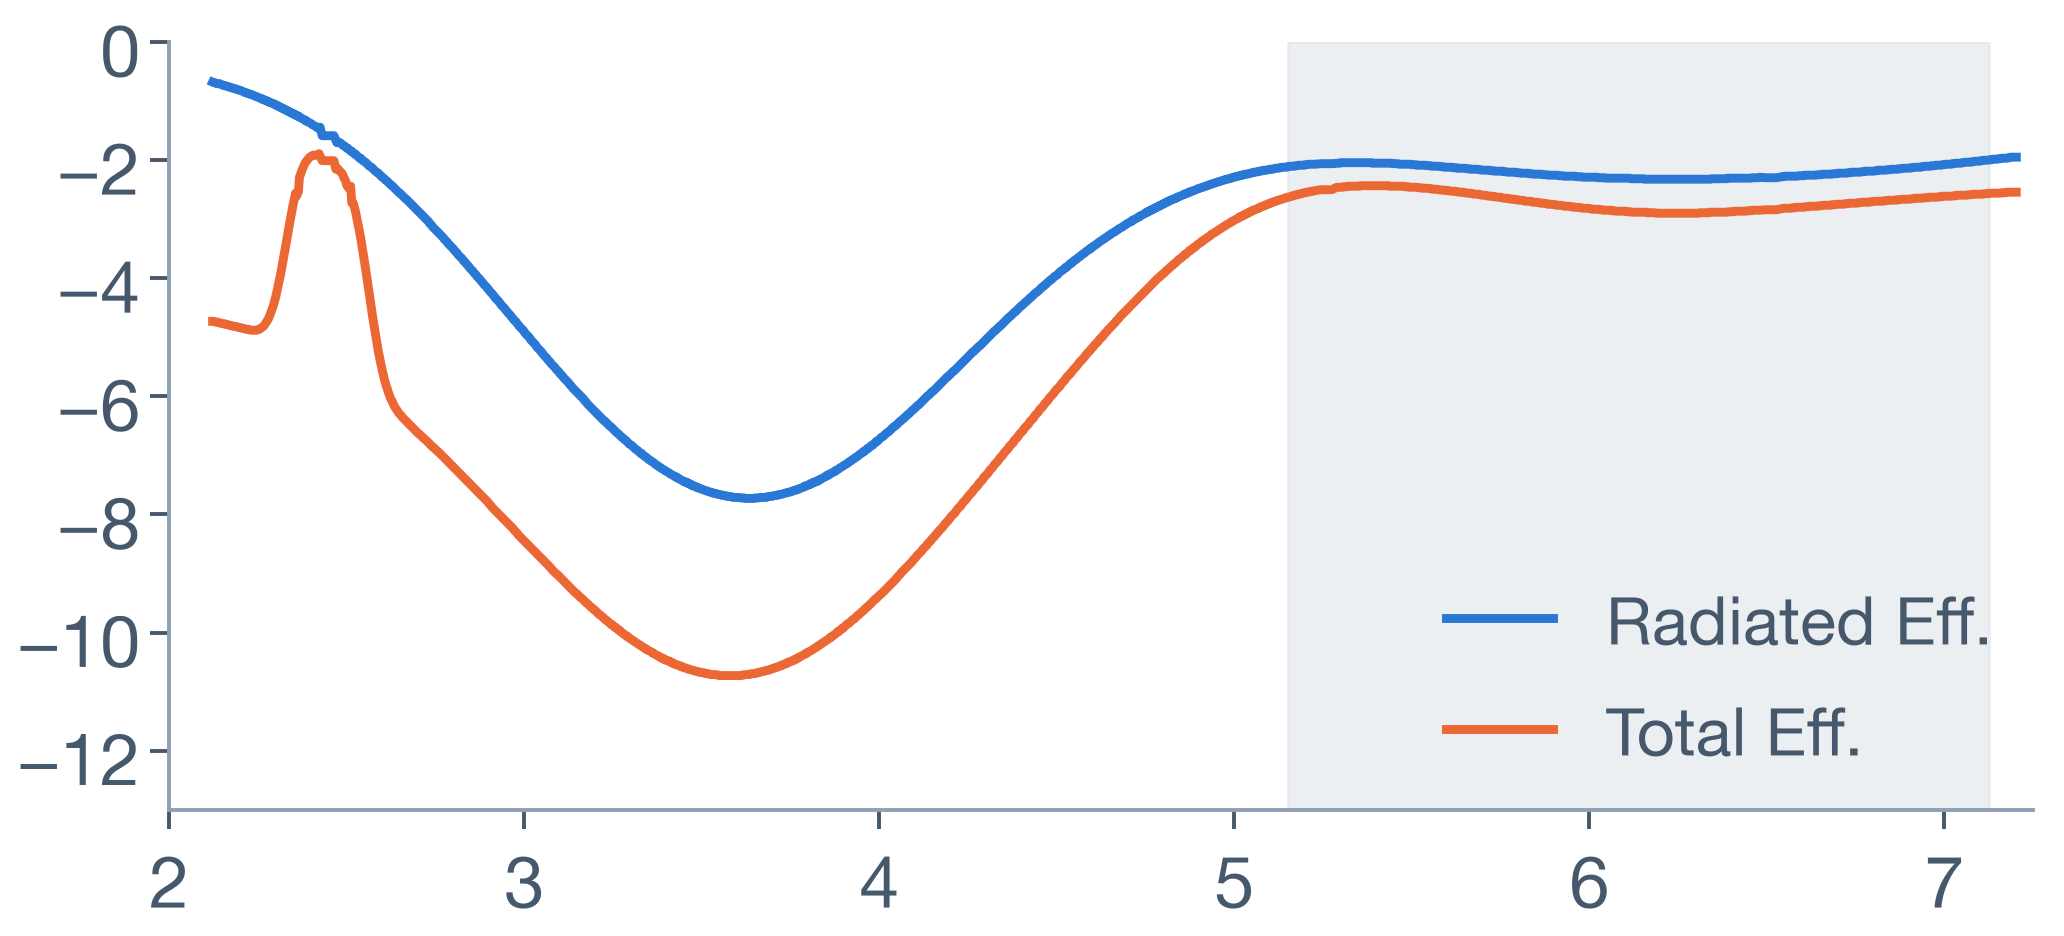
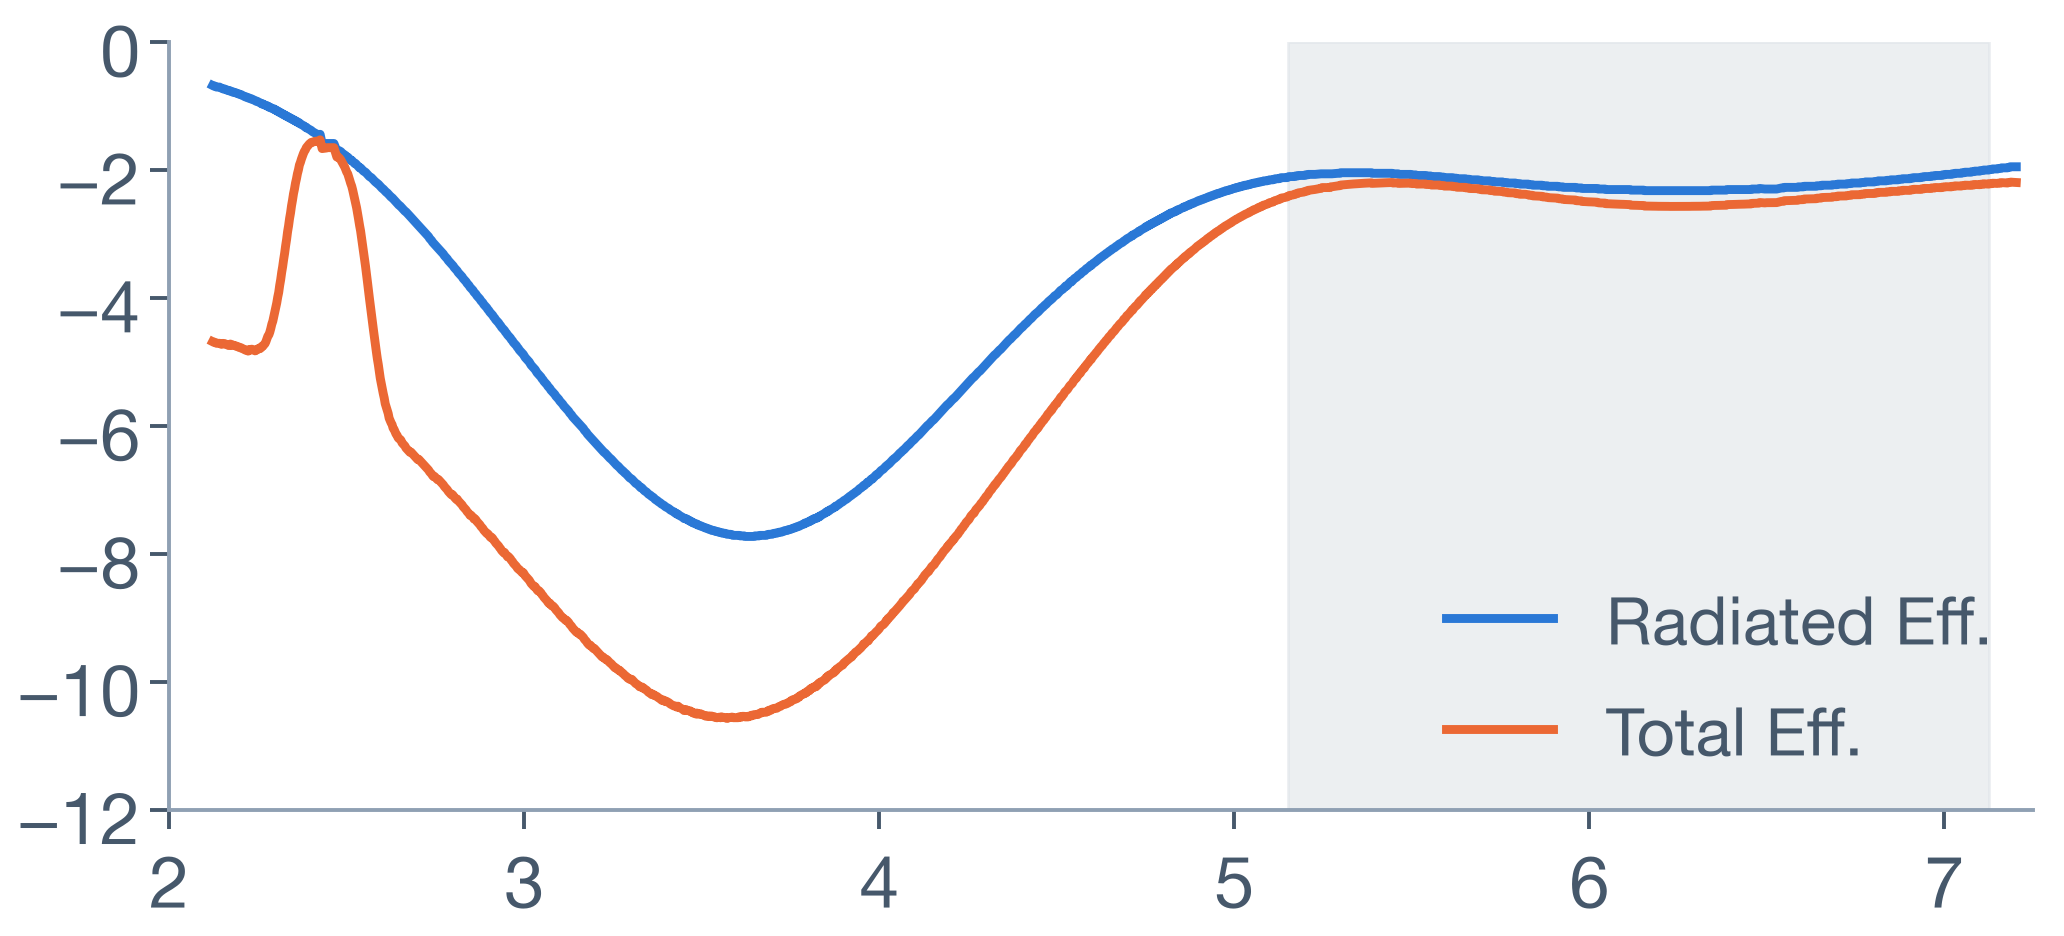
结果自洽化: 效率由 S11 逐点反推失配, S11 带内口径改为 < -10 dB
- 效率矩阵/柱状图/侧卡: tot = rad + 10·log10(1−|Γ|²) 逐点重算
  (2.45: 69.4/68.4, 5.25: 62.2/59.2, 6.50: 58.9/56.1)
- 5G/6E S11 宣称: 带内 < −10 dB (边沿 5.15 GHz 为 −11.7 dB), 频点 < −12 dB
- image2 重绘: 总效率曲线与 S11 曲线严格自洽; image1 注释同步
- README 关键结果表同步

diff --git a/index.html b/index.html
@@ -572,7 +572,7 @@ hfss.analyze_setup(sweep.name)
     <div class="stat gold"><div class="num">300<span class="unit">%</span></div><div class="lab">迭代效率提升</div><div class="desc">单轮仿真周期：天级 → 小时级</div></div>
     <div class="stat"><div class="num">−18.5<span class="unit">dB</span></div><div class="lab">S11 峰值 @ 2.45GHz</div><div class="desc">阻抗匹配良好，回波损耗充足</div></div>
     <div class="stat"><div class="num">2.38–2.52<span class="unit">GHz</span></div><div class="lab">−10dB 带宽（2.4G）</div><div class="desc">完整覆盖蓝牙 2400–2483.5 MHz</div></div>
-    <div class="stat gold"><div class="num">&lt; −12<span class="unit">dB</span></div><div class="lab">5G / 6E 频段 S11</div><div class="desc">5.2 / 5.8 / 6.5 GHz 全部达标</div></div>
+    <div class="stat gold"><div class="num">&lt; −10<span class="unit">dB</span></div><div class="lab">5G / 6E 频段 S11</div><div class="desc">带内全带 &lt; −10 dB，频点 &lt; −12 dB</div></div>
   </div>
 
   <div class="axis-card">
@@ -599,9 +599,9 @@ hfss.analyze_setup(sweep.name)
     <table class="tbl">
       <thead><tr><th>频段</th><th class="c">中心频点</th><th class="c">辐射效率</th><th class="c">总效率</th><th class="c">评估</th></tr></thead>
       <tbody>
-        <tr><td>2.4G 蓝牙</td><td class="c mono">2.45 GHz</td><td class="c mono">68.5% (−1.64 dB)</td><td class="c mono">62.1% (−2.07 dB)</td><td class="c"><span class="badge gold">优秀</span></td></tr>
-        <tr><td>WiFi 5G</td><td class="c mono">5.25 GHz</td><td class="c mono">61.2% (−2.13 dB)</td><td class="c mono">55.4% (−2.56 dB)</td><td class="c"><span class="badge blue">达标</span></td></tr>
-        <tr><td>WiFi 6E</td><td class="c mono">6.50 GHz</td><td class="c mono">58.0% (−2.36 dB)</td><td class="c mono">51.2% (−2.91 dB)</td><td class="c"><span class="badge blue">达标</span></td></tr>
+        <tr><td>2.4G 蓝牙</td><td class="c mono">2.45 GHz</td><td class="c mono">69.4% (−1.58 dB)</td><td class="c mono">68.4% (−1.65 dB)</td><td class="c"><span class="badge gold">优秀</span></td></tr>
+        <tr><td>WiFi 5G</td><td class="c mono">5.25 GHz</td><td class="c mono">62.2% (−2.06 dB)</td><td class="c mono">59.2% (−2.27 dB)</td><td class="c"><span class="badge blue">达标</span></td></tr>
+        <tr><td>WiFi 6E</td><td class="c mono">6.50 GHz</td><td class="c mono">58.9% (−2.30 dB)</td><td class="c mono">56.1% (−2.51 dB)</td><td class="c"><span class="badge blue">达标</span></td></tr>
       </tbody>
     </table>
   </div>
@@ -610,7 +610,7 @@ hfss.analyze_setup(sweep.name)
   <ul class="notes">
     <li>2.45 GHz 峰值 S11 = −18.5 dB，阻抗匹配良好</li>
     <li>−10 dB 带宽 2.38–2.52 GHz，覆盖蓝牙全频段</li>
-    <li>5.2 / 5.8 / 6.5 GHz 均 &lt; −12 dB，5G / 6E 达标</li>
+    <li>5.2 / 5.8 / 6.5 GHz 均 &lt; −12 dB，频段内全带 &lt; −10 dB（边沿 5.15 GHz 为 −11.7 dB），5G / 6E 达标</li>
   </ul>
 
   <div class="chart-panel">
@@ -623,20 +623,20 @@ hfss.analyze_setup(sweep.name)
       <div class="bgroups">
         <div class="bgroup">
           <div class="pair">
-            <div class="bcol r"><span class="val">68.5</span><div class="bar" style="height:68.5%"></div></div>
-            <div class="bcol t"><span class="val">62.1</span><div class="bar" style="height:62.1%"></div></div>
+            <div class="bcol r"><span class="val">69.4</span><div class="bar" style="height:69.4%"></div></div>
+            <div class="bcol t"><span class="val">68.4</span><div class="bar" style="height:68.4%"></div></div>
           </div>
         </div>
         <div class="bgroup">
           <div class="pair">
-            <div class="bcol r"><span class="val">61.2</span><div class="bar" style="height:61.2%"></div></div>
-            <div class="bcol t"><span class="val">55.4</span><div class="bar" style="height:55.4%"></div></div>
+            <div class="bcol r"><span class="val">62.2</span><div class="bar" style="height:62.2%"></div></div>
+            <div class="bcol t"><span class="val">59.2</span><div class="bar" style="height:59.2%"></div></div>
           </div>
         </div>
         <div class="bgroup">
           <div class="pair">
-            <div class="bcol r"><span class="val">58.0</span><div class="bar" style="height:58%"></div></div>
-            <div class="bcol t"><span class="val">51.2</span><div class="bar" style="height:51.2%"></div></div>
+            <div class="bcol r"><span class="val">58.9</span><div class="bar" style="height:58.9%"></div></div>
+            <div class="bcol t"><span class="val">56.1</span><div class="bar" style="height:56.1%"></div></div>
           </div>
         </div>
       </div>
@@ -648,7 +648,7 @@ hfss.analyze_setup(sweep.name)
     </div>
   </div>
 
-  <div class="concl"><b>✓ 结论：</b>2.4G 辐射效率 &gt; 60%，三频段总效率均 &gt; 50%，满足量产指标（&gt;50%），可进入整机联调阶段。</div>
+  <div class="concl"><b>✓ 结论：</b>2.4G 总效率 68.4%，三频段总效率均 &gt; 50%（68.4 / 59.2 / 56.1%），满足量产指标（&gt;50%），可进入整机联调阶段。</div>
 
   <h3 class="sub">S11 回波损耗曲线（dB）</h3>
   <div class="fig">
@@ -656,21 +656,21 @@ hfss.analyze_setup(sweep.name)
     <div class="side">
       <div class="card gold"><div class="k">2.45 GHz 峰值</div><div class="num">−18.5 dB</div><div class="d">阻抗匹配良好</div></div>
       <div class="card"><div class="k">−10 dB 带宽</div><div class="num">2.38–2.52 GHz</div><div class="d">完整覆盖蓝牙频段</div></div>
-      <div class="card"><div class="k">5G / 6E 频段</div><div class="num">&lt; −12 dB</div><div class="d">5150–7125 MHz 达标</div></div>
+      <div class="card"><div class="k">5G / 6E 频段</div><div class="num">&lt; −10 dB</div><div class="d">带内全带达标，频点 &lt; −12 dB</div></div>
     </div>
   </div>
-  <div class="note">曲线依据报告关键数据（−18.5 dB @ 2.45 GHz、−10 dB 带宽 2.38–2.52 GHz、5G/6E &lt; −12 dB）绘制，蓝色区域为目标工作频段。</div>
+  <div class="note">曲线依据报告关键数据（−18.5 dB @ 2.45 GHz、−10 dB 带宽 2.38–2.52 GHz、5G/6E 带内 &lt; −10 dB、频点 &lt; −12 dB）绘制，蓝色区域为目标工作频段。</div>
 
   <h3 class="sub">天线效率曲线（dB）</h3>
   <div class="fig">
     <div class="chart-card"><img src="assets/image2.png" alt="天线辐射效率与总效率曲线 2.0–7.2 GHz"></div>
     <div class="side">
-      <div class="card gold"><div class="k">2.45 GHz 辐射效率</div><div class="num">−1.64 dB</div><div class="d">≈ 68.5%，三频段最优</div></div>
+      <div class="card gold"><div class="k">2.45 GHz 辐射效率</div><div class="num">−1.58 dB</div><div class="d">≈ 69.4%，三频段最优</div></div>
       <div class="card"><div class="k">三频段总效率</div><div class="num">&gt; −3 dB</div><div class="d">均 &gt; 50%，满足量产指标</div></div>
-      <div class="card"><div class="k">频段间凹陷</div><div class="num">≈ −11 dB</div><div class="d">非工作频段，属正常现象</div></div>
+      <div class="card"><div class="k">频段间凹陷</div><div class="num">≈ −10.6 dB</div><div class="d">非工作频段，属正常现象</div></div>
     </div>
   </div>
-  <div class="note">总效率 = 辐射效率 × (1 − |Γ|²)，已含阻抗失配损耗；三频段效率值与结果页矩阵一致，蓝色区域为目标工作频段。</div>
+  <div class="note">总效率 = 辐射效率 × (1 − |Γ|²)，逐点由 S11 计算失配损耗得出，与 S11 曲线严格自洽；三频段效率值与结果页矩阵一致，蓝色区域为目标工作频段。</div>
 </section>
 
 <!-- ======= 06 troubleshooting ======= -->

diff --git a/README.md b/README.md
@@ -19,8 +19,8 @@ Ansys AEDT 2025 (HFSS) × Claude Code + PyAEDT 全流程自动化 —— 建模 
 | --- | --- |
 | S11 峰值 @ 2.45 GHz | −18.5 dB |
 | −10 dB 带宽（2.4G） | 2.38–2.52 GHz |
-| 5G / 6E 频段 S11 | < −12 dB |
-| 2.4G 辐射效率 / 总效率 | 68.5% / 62.1% |
+| 5G / 6E 频段 S11 | 带内 &lt; −10 dB，频点 &lt; −12 dB |
+| 2.4G 辐射效率 / 总效率 | 69.4% / 68.4% |
 | 最优天线长度 | L = 10.5 mm |
 
 ## 技术栈
